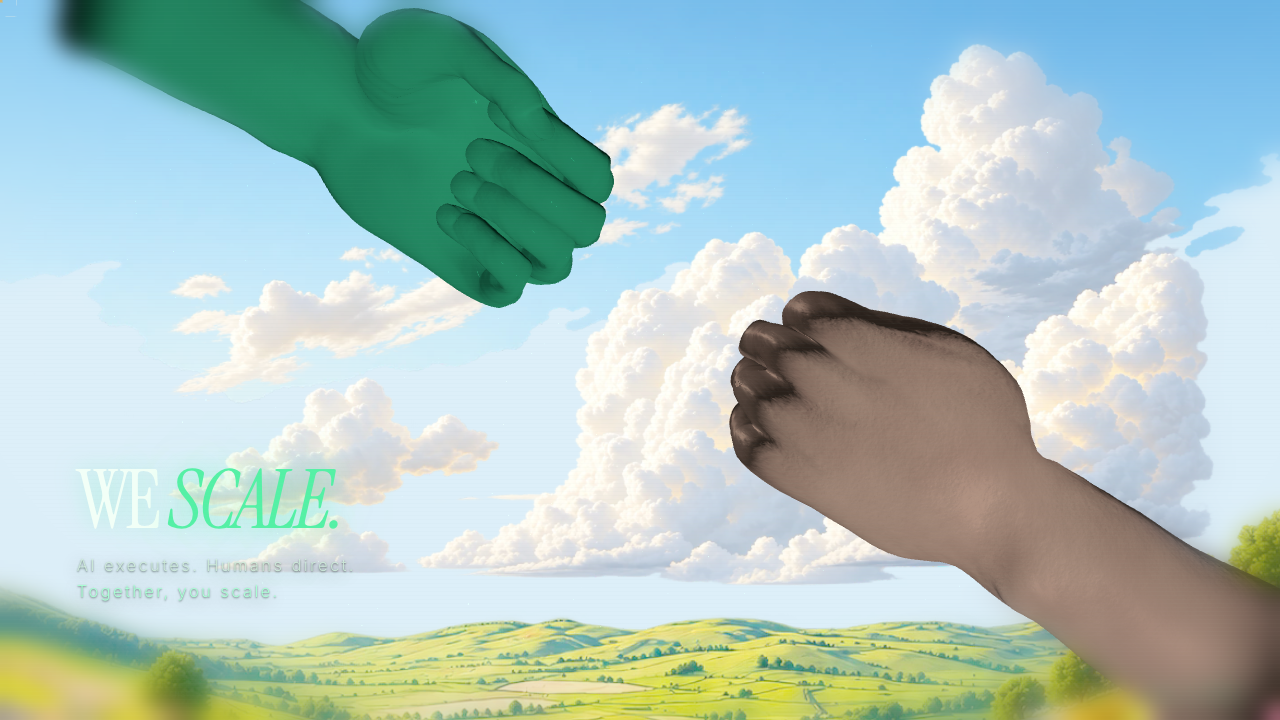
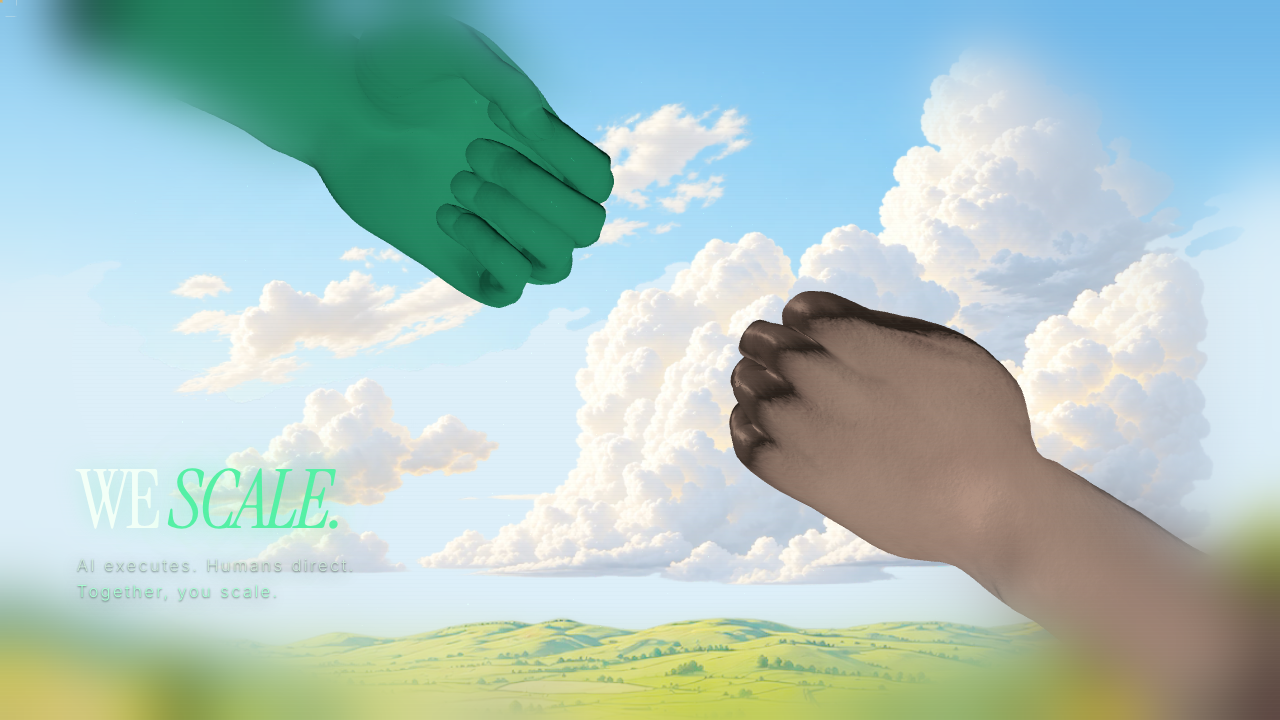
edge blur to 30px, wider band — forearm cut-ends fully dissolve at frame edges

diff --git a/src/styles/main.css b/src/styles/main.css
@@ -5818,9 +5818,9 @@ canvas.market-camera3d {
   inset: 0;
   pointer-events: none;
   z-index: 2;
-  backdrop-filter: blur(12px);
-  -webkit-backdrop-filter: blur(12px);
-  mask-image: radial-gradient(ellipse 74% 70% at 50% 50%, transparent 56%, black 84%);
-  -webkit-mask-image: radial-gradient(ellipse 74% 70% at 50% 50%, transparent 56%, black 84%);
+  backdrop-filter: blur(30px);
+  -webkit-backdrop-filter: blur(30px);
+  mask-image: radial-gradient(ellipse 74% 70% at 50% 50%, transparent 48%, black 72%);
+  -webkit-mask-image: radial-gradient(ellipse 74% 70% at 50% 50%, transparent 48%, black 72%);
   opacity: var(--meet-bg, 0);
 }
